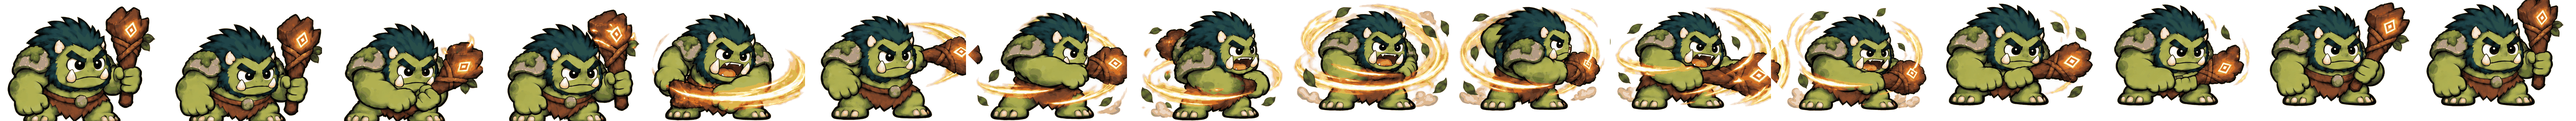
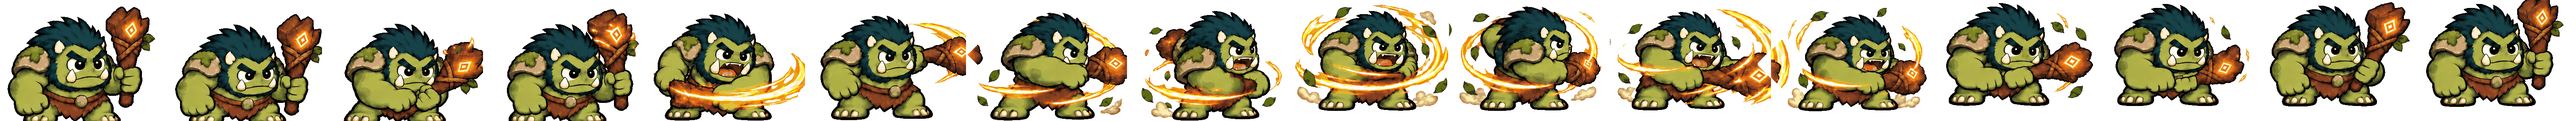
Repack Torchswing from a sheet with real transparency
The first export was RGB on solid white. Keying it left a pale rim on 45.8% of
his outline, because anti-aliasing had smeared the black edge into the
background and the greys it left sat below any threshold that would not also
have eaten his tusks, his teeth and the dust - all of which are genuinely
near-white in this art.

Measured on the dark battle background, edge brightness was 156 against 42 and
19 for the two sheets that came with alpha. It is now 51, and the pale share is
0.4% against 45.8%.

Identical geometry - 364x274, aspect 1.3285 - so the sprite config, the
mechanics and the cooldowns are untouched; only the file changed. The seams
still earned their keep: a straight cut would have crossed 151, 154 and 274
pixels of the arcs, which sweep well past their own cells.

Verified: sixteen frames, none empty, none clipped, and every suite still
passes.

Claude-Session: https://claude.ai/code/session_01YRzrKPfiP3SQKKej9Vjk7N

diff --git a/index.html b/index.html
@@ -2133,6 +2133,12 @@ const RAID_BOSS = {
       battle:{ dmg:2.2, pierce:0.7, cd:4 },
       sprite:{ src:"art/boss-skill-smash.png", frames:16, rows:1, fps:9,
                aspect:1.3285, scale:1, dx:0, dy:0 } },
+    /* Repacked from a second export. The first arrived as RGB on solid white,
+       and keying that left a pale rim on 45.8% of his outline - anti-aliasing
+       had smeared the black edge into the background, and the greys it left
+       sat under any threshold that did not also eat his tusks. With real alpha
+       the same measurement is 0.4%, against 0.8% and 0.0% for the sheets that
+       always had it. Same geometry, so nothing below changed. */
     { id:"torchswing", name:"Torchswing", ico:"\u{1F525}",
       blurb:"A flat, sweeping arc that takes everything at knee height with it.",
       battle:{ dmg:1.35, cd:2 },
